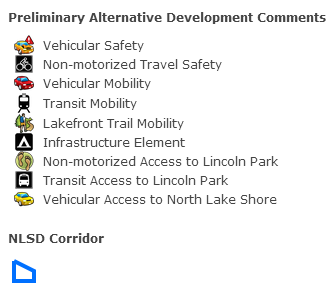
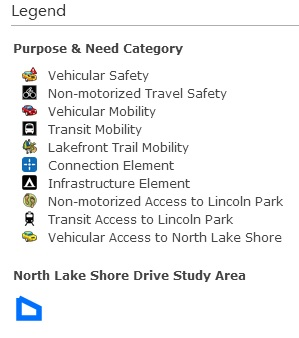
Round 1 Mary Edits

diff --git a/help.htm b/help.htm
@@ -42,27 +42,27 @@
  	<div class="Help" id="Help" style="z-index: 1000; text-align:justify; left: 5%; overflow: visible; width: 90%; position: absolute; top: 20px; height: 500px" >
 	    <h2>Application Help</h2>
 		<hr>
-	    <h3>Legend</h3>
-		<img src="images/legend.png" alt="legend" height="350px" width="350px"> 
-		<p><b>Vehicle Safety</b> - text
-		<p><b>Non-motorized Travel Safety</b> - text
-		<p><b>Vehicular Mobility</b> - text
-		<p><b>Transit Mobility</b> - text
-		<p><b>Lakefront Trail Mobility</b> - text
-		<p><b>Infrastructure Element</b> - text
-		<p><b>Non-motorized Access to Lincoln Park</b> - text
-		<p><b>Transit Access to Lincoln Park</b> - text
-		<p><b>Vehicular Access to North Lake Shore</b> - text
+	   	<img src="images/legend.png" alt="legend" height="350px" width="350px"> 
+		<p><b>Vehicle Safety</b> - How can we make the roadway safer?
+		<p><b>Non-motorized Travel Safety</b> - How can we make using and accessing the Lakefront Trail safer?
+		<p><b>Vehicular Mobility</b> - How can we improve traffic operation in the NLSD corridor?
+		<p><b>Transit Mobility</b> - How can we improve transit operation in the NLSD corridor?
+		<p><b>Lakefront Trail Mobility</b> - What can we do to better serve all users of the Lakefront Trail? 
+		<p><b>Connection Element</b> - How can we better serve connections between travel modes?
+		<p><b>Infrastructure Element</b> -  How can we improve the condition and functionality of infrastructure in the corridor such as pavement, bridges, drainage, pedestrian tunnels, etc.
+		<p><b>Non-motorized Access to Lincoln Park</b> - How can we improve the accessibility of the Park to pedestrians and cyclists?
+		<p><b>Transit Access to Lincoln Park</b> - How can we better accommodate transit access to the Park? 
+		<p><b>Vehicular Access to North Lake Shore</b> - How can we make accessing NLSD better for autos and buses?
 		<hr>
 		<p>
 		<p> </p>
 	    <h3>Using the Application</h3>
-	    <p>This GIS <b>Citizen Comment Collector</b> web application allows citizens to submit their comments, requests and ideas for different Civiltech projects. It is a single application that can be used on a desktop browser, mobile phone, and tablet device. In short, the comment collector application allows citizens to submit comments to a specific project study area. Pan and zoom around, click/tap directly on the map to pin your comment to the map. Then, provide details about your comment and click/tap 'Submit' to finalize your request. Providing your name, phone and/or email is OPTIONAL. This information will be seen by Civiltech Engineers and will NOT be available to other users.</p>
+	    <p>This GIS web application allows stakeholders to submit their transportation related ideas for improving the North Lake Shore Drive multi-modal corridor. It is a single application that can be used on a desktop browser, mobile phone, and tablet device. Pan and zoom around, click/tap directly on the map to pin your comment to the map. Then, provide details about your comment and click/tap 'Submit' to finalize your request. Providing your name, phone and/or email is OPTIONAL. This information will only be available to the Project Team and will be used to add you to the project notification database.  This information will NOT be available to other users.</p>
 		<p>
 		<hr>
 		<p>
 		<h3>Place a Comment on The Map</h3>
-        <p>You can interact directly with the map by panning or zooming around. When you have found your comment location, simply click/tap to place your comment point. If you accidentally place a comment marker in the wrong location, you can "cancel" the placement and replace the marker again. Once comments are submitted, a user cannot go back to edit or change their response.</p>
+        <p>You can interact directly with the map by panning or zooming around. Once you have selected the desired location, simply click/tap to place your comment point. If you accidentally place a comment marker in the wrong location, you can "cancel" the placement and begin again. However, once comments are submitted, a user cannot go back to edit or change their response.</p>
         <p>
 		<hr>
 		<p>
@@ -82,12 +82,12 @@
 		<hr>
 		<p>
 		<h3>More Information</h3>
-        <p>For questions about the GIS comment collector, email Civiltech's GIS Specialist at skrueger@civiltechinc.com </p>
+        <p>For questions about the GIS web application, email <a href="mailto:MapQuestions@northlakeshoredrive.org">MapQuestions@northlakeshoredrive.org</a>  </p>
         <p>
 		<hr>
 		<p>
 		<h3>Browser Compatibility</h3>
-        <p>The Citizen Service Request application is supported on the following browsers: Microsoft IE 7/8/9, Mozilla Firefox, Google Chrome and Apple Safari.<br/></p>
+        <p>The Citizen Service Request application is supported on the following browsers: Microsoft IE 8/9/10, Mozilla Firefox, Google Chrome and Apple Safari.<br/></p>
 		<p>
 		<hr>
 		<p>

diff --git a/js/config.js b/js/config.js
@@ -49,13 +49,13 @@ dojo.declare("js.config", null, {
     // GENERAL SETTINGS
     // ------------------------------------------------------------------------------------------------------------------------
     // Set application title
-    ApplicationName: "Preliminary Alternatives Development | North Lake Shore Drive Phase 1 Study",
+    ApplicationName: "Preliminary Alternatives Development  |  North Lake Shore Drive Phase I Study",
 
     // Set application icon path
-    ApplicationIcon: "http://farm8.staticflickr.com/7415/11311699013_b2493ab9f7_o.png",
+    ApplicationIcon: "https://farm8.staticflickr.com/7165/13536590615_d8155f24a9_o.jpg",
 
     // Set splash window content - Message that appears when the application starts
-    SplashScreenMessage: "<h2>Civiltech Engineering, Inc.</h2><b>Citizen Comment Collector App</b><br/><b>Preliminary Alternative Development<br/>North Lake Shore Drive</b><br/><br/>Click directly on the map to choose a comment location. Then, provide additional detail in the pop up comment form. Click or tap 'Submit' to finalize your request. Please only place comments inside the blue project corridor.<br/><br/>Click the blue question mark icon in the upper right for more application help options and to view the map legend.",
+    SplashScreenMessage: "<h2>NORTH LAKE SHORE DRIVE STUDY</h2><h3>Ideas to Redefine the Drive</h3>Click directly on the map to share your transportation related idea to improve the North Lake Shore Drive multi-modal corridor.  Each idea must correlate to a specific transportation mode as well as one of the identified project Purpose & Need categories.<br/><br/>Click the blue question mark icon in the upper right for more application help options and to view the map legend.",
 
     // Set URL of help page/portal
     HelpURL: "help.htm",
@@ -95,14 +95,14 @@ dojo.declare("js.config", null, {
 
     OperationalLayers: {
         //URL used for doing query task on the ServiceRequest layer
-        ServiceRequestLayerURL: "https://services1.arcgis.com/E46xbxblkkNBM6FT/arcgis/rest/services/NLSDTaskForceCommentsNew/FeatureServer/0",
+        ServiceRequestLayerURL: "https://services1.arcgis.com/E46xbxblkkNBM6FT/arcgis/rest/services/Purpose_Need_Categoriesnew/FeatureServer/0",
         //Set the primary key attribute for servicerequest
         RequestId: "${REQUESTID}",
 
-        ServiceRequestMobileLayerURL: "https://services1.arcgis.com/E46xbxblkkNBM6FT/arcgis/rest/services/NLSDTaskForceCommentsNew/FeatureServer/0",
+        ServiceRequestMobileLayerURL: "https://services1.arcgis.com/E46xbxblkkNBM6FT/arcgis/rest/services/Purpose_Need_Categoriesnew/FeatureServer/0",
 
         //URL used for doing query task on the comments layer
-        ServiceRequestCommentsLayerURL: "https://services1.arcgis.com/E46xbxblkkNBM6FT/arcgis/rest/services/NLSDTaskForceCommentsNew/FeatureServer/1",
+        ServiceRequestCommentsLayerURL: "https://services1.arcgis.com/E46xbxblkkNBM6FT/arcgis/rest/services/Purpose_Need_Categoriesnew/FeatureServer/1",
         //Set the primary key attribute for the comments
         CommentId: "${REQUESTID}"
 
@@ -114,7 +114,7 @@ dojo.declare("js.config", null, {
 
     // Info-window is a small, two line popup that gets displayed on selecting a feature
     // Set Info-window title. Configure this with text/fields
-    InfoWindowHeader: "Review Comment Details",
+    InfoWindowHeader: "Review Purpose & Need Comment Details",
 
     // Choose content/fields for the info window
     InfoWindowContent: "${REQUESTTYPE}",
@@ -126,13 +126,13 @@ dojo.declare("js.config", null, {
     // INFO-POPUP SETTINGS
     // ------------------------------------------------------------------------------------------------------------------------
     //The labels displayed next to the input boxes when creating a new point, leaving them blank will use the defaults
-    InfoWindowCreateTitle: "Enter Comment Details",
+    InfoWindowCreateTitle: "Enter Purpose & Need Comment Details",
     InfoWindowCreateType: "",
     InfoWindowCreateComments: "",
     InfoWindowCreateName: "",
     InfoWindowCreatePhone: "",
     InfoWindowCreateEmail: "",
-
+	 InfoWindowCreateAttach: "",
     
 	// Info-popup is a popup dialog that gets displayed on selecting a feature
     // Set the content to be displayed on the info-Popup. Define labels, field values, field types and field formats
@@ -148,7 +148,11 @@ dojo.declare("js.config", null, {
         DisplayText: "Date Submitted:",
         AttributeValue: "${REQUESTDATE}",
         DataType: "date"
-    },],
+    },{
+        DisplayText: "Status:",
+        AttributeValue: "${STATUS}",
+        DataType: "string"
+    }],
 
     // Set this to true to show "Comments" tab in the info-Popup
     ShowCommentsTab: false,

diff --git a/styles/serviceRequest.css b/styles/serviceRequest.css
@@ -73,6 +73,7 @@ body, html
     z-index: 1003;
     background-color: #1665A1;
     text-align: center;
+	
 }
 
 .divSplashScreenDialogContent
@@ -224,15 +225,15 @@ body, html
 
 .imgOptions
 {
-    height: 75px;
-    width: 150px;
+    height: 140px;
+    width: 85px;
 	
 }
 
 .imgApp
 {
-    width: 150px;
-    height: 70px;
+    width: 40px;
+    height: 65px;
 	
 	
 }
@@ -268,7 +269,7 @@ body, html
 
 .lblAppName
 {
-    padding-left: 175px;
+    padding-left: 75px;
 }
 
 /*---------------------------------------------------------------------------------------------------------*/
